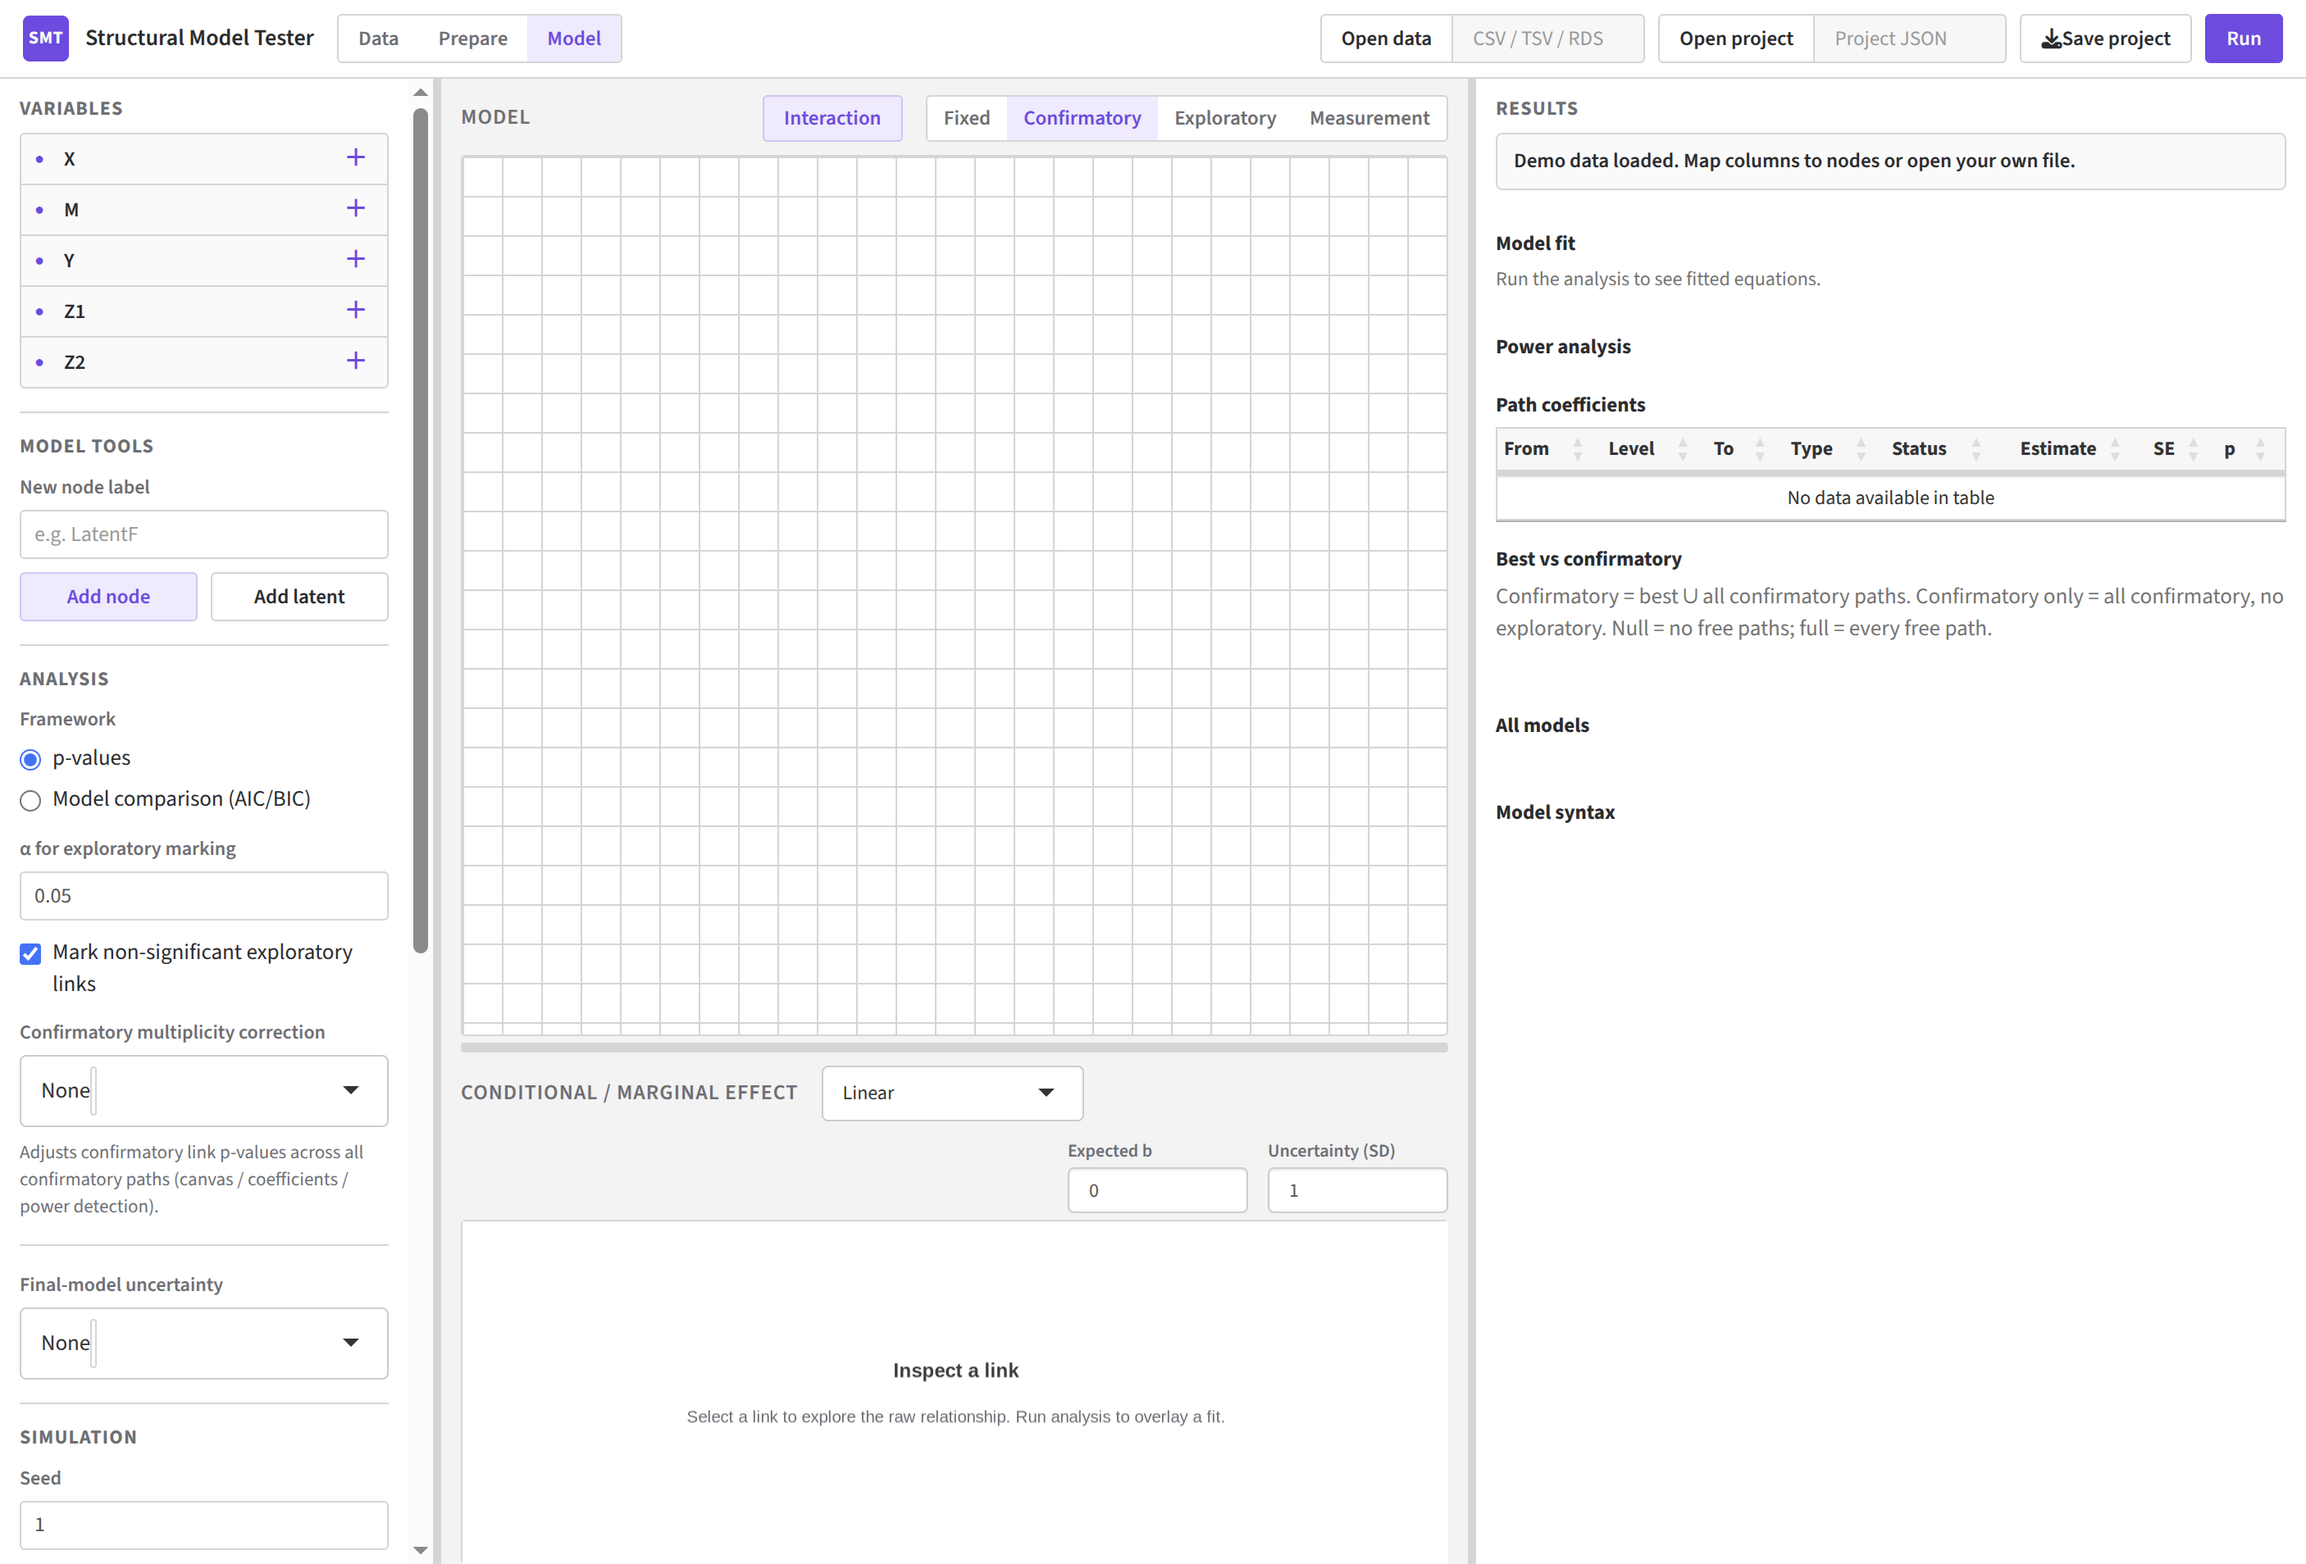
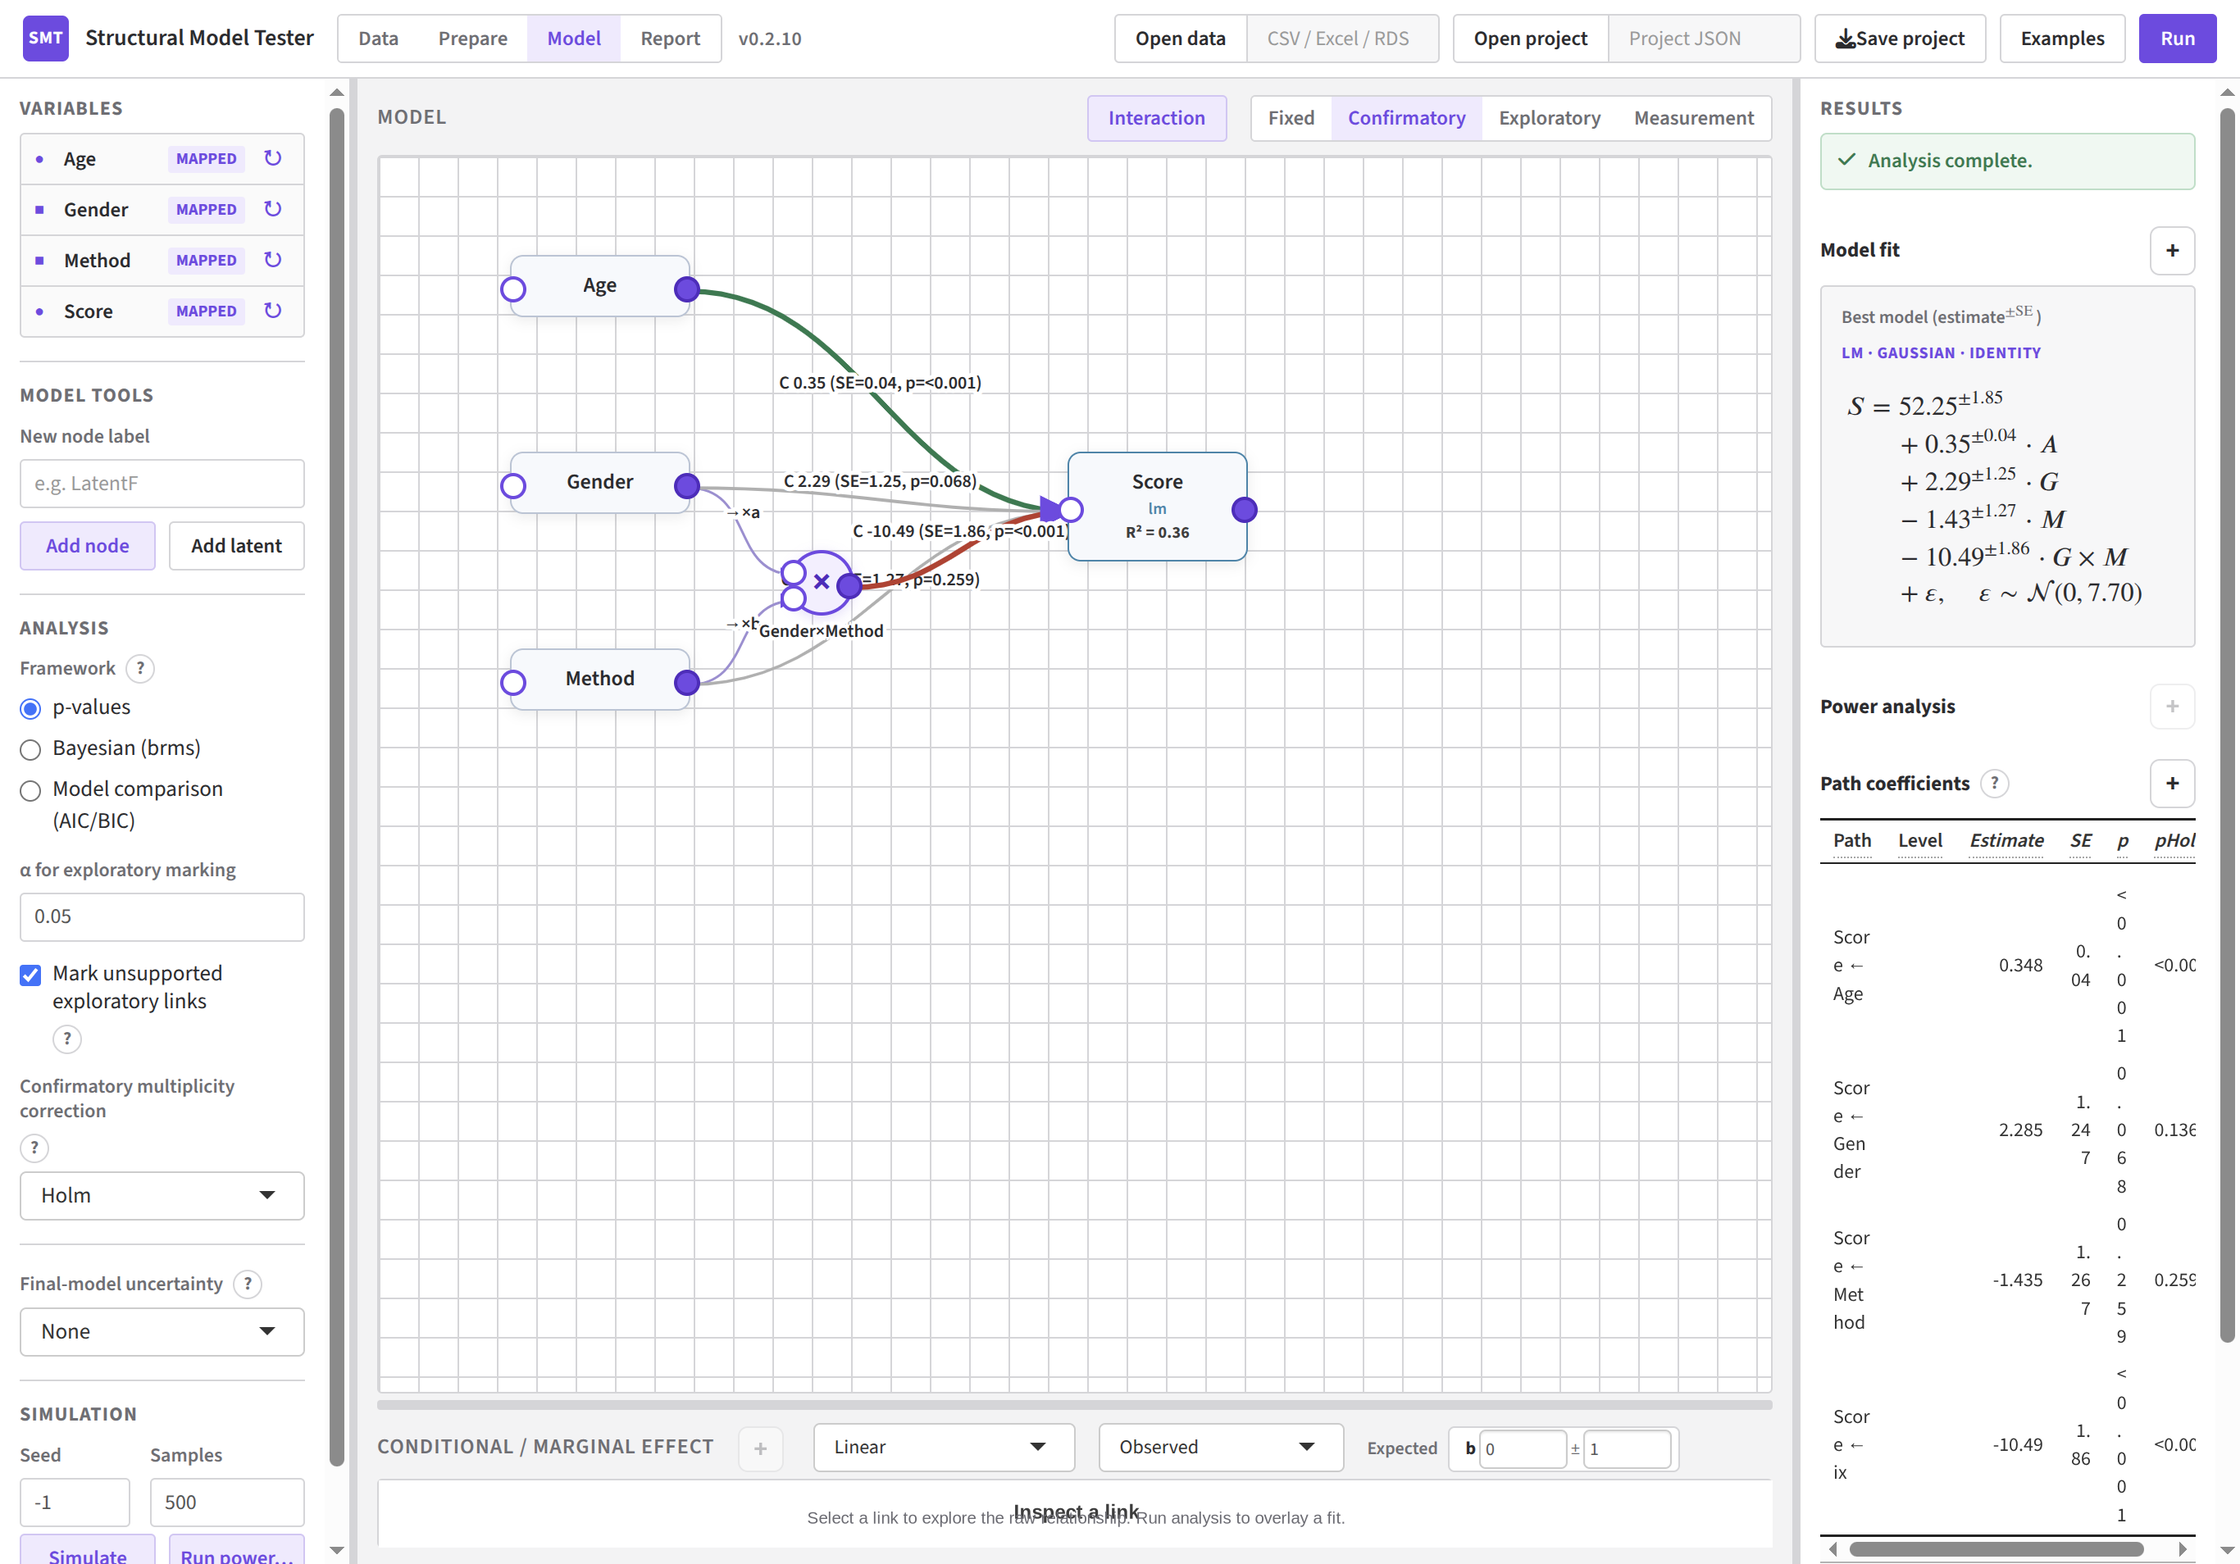
Release 0.2.10: soft-fail browser launch, refreshed docs and screenshots.

diff --git a/README.md b/README.md
@@ -1,6 +1,6 @@
 # Structural Model Tester
 
-Visual path / SEM workbench for R: draw the model, set expected effects, simulate or fit real data, and plan sample size — in one Shiny app.
+Visual path / SEM workbench for R: draw the model, set expected effects as priors, simulate or fit real data (classical, information-criteria search, or Bayesian), and plan sample size — in one Shiny app.
 
 <p align="center">
   <img src="man/figures/readme-app-overview.png" alt="Structural Model Tester app overview" width="900"/>
@@ -9,12 +9,13 @@ Visual path / SEM workbench for R: draw the model, set expected effects, simulat
 ## What it does
 
 - **Canvas model editor** — observed / latent / interaction (×) nodes; drag links that are *fixed*, *confirmatory*, *exploratory*, or *measurement*
-- **Two inference frameworks** — classical **p-values** (optional exploratory marking + confirmatory multiplicity correction) or **AIC/BIC search** with optional full model averaging and **Σw** link rejection
-- **Simulation from expected `b`** — unstandardized slopes on continuous predictors (mean-centered), treatment contrasts for factors, interactions coded like the fit; categorical factors can be **Inter** or **Intra** with probability or exact level counts (Intra + Exact builds within-subject factorials; Samples = subjects)
-- **Conditional / marginal effect plots** — inspect a link with prior band, fit overlay, and interaction correction (ghost line + arrow)
+- **Three inference frameworks** — classical **p-values** (optional exploratory marking + confirmatory multiplicity correction); **AIC/BIC search** with optional full model averaging and **Σw** link rejection; **Bayesian (brms)** with HDI, pd, ROPE, log BF₁₀, and MCMC / PPC diagnostics
+- **Simulation from expected `b`** — unstandardized slopes (also used as normal priors under Bayesian); treatment contrasts for factors; Inter / Intra allocation with probability or exact level counts
+- **Conditional / marginal & mediation plots** — inspect a link with prior band and fit overlay; path tables include via / total effects when mediators are present
+- **Pedagogical field help** — clickable `?` modals on controls (priors, ROPE, BF₁₀, MCMC, …)
 - **Confirmatory power analysis** — Monte Carlo power and null false-detection curves, with a recommended **N\***
 
-Works anywhere R runs (Linux, Windows, macOS) with a local browser.
+Works anywhere R runs (Linux, Windows, macOS). If no system browser is configured, `run_app()` still starts and prints the URL.
 
 ## Screenshots
 
@@ -24,7 +25,7 @@ Works anywhere R runs (Linux, Windows, macOS) with a local browser.
   <img src="man/figures/readme-app-canvas.jpg" alt="Canvas with Age, Gender × Method → Score" width="520"/>
 </p>
 
-Build confirmatory mains and `Gender × Method` interactions on the canvas; dashed / solid styling reflects search or p-value decisions after **Run** or **Simulate**.
+Build confirmatory mains and `Gender × Method` interactions on the canvas; dashed / solid styling reflects search, p-value, or Bayesian decisions after **Run** or **Simulate**.
 
 ### Conditional effects
 
@@ -38,7 +39,7 @@ Selecting a link opens the **Conditional / marginal effect** panel. Interaction 
   <img src="man/figures/readme-age-effect.png" alt="Continuous Age → Score effect with expected b" width="700"/>
 </p>
 
-Continuous links use **Expected `b`** (raw slope), not standardized β — so simulation matches the units you type.
+Continuous links use **Expected `b`** (raw slope), not standardized β — so simulation and Bayesian priors match the units you type.
 
 ### Power and false detections
 
@@ -57,9 +58,11 @@ Continuous links use **Expected `b`** (raw slope), not standardized β — so si
 ```r
 install.packages(c(
   "shiny", "ggplot2", "lavaan", "readr", "readxl",
-  "jsonlite", "DT", "lme4", "lmerTest"
+  "jsonlite", "DT", "lme4", "lmerTest", "emmeans"
 ))
-# from GitHub — remotes::install_github and devtools::install_github both work:
+# Optional Bayesian backend:
+# install.packages(c("brms", "cmdstanr"))  # or rstan
+# from GitHub:
 remotes::install_github("BapJacquet/StructuralModelTester")
 ```
 
@@ -76,6 +79,12 @@ From a local clone:
 ```r
 library(StructuralModelTester)
 run_app()
+
+# Seed the Data tab (skips the examples modal):
+# run_app(data = my_data)
+
+# Echo [smt-debug] lines to the console while developing:
+# run_app(debug = TRUE)
 ```
 
 During development from the source tree:
@@ -85,13 +94,15 @@ During development from the source tree:
 run_app()
 ```
 
+Stop the app from the R console with **Esc** (RStudio / Positron) or **Ctrl+C** (terminal). If a browser does not open, paste the printed `http://…` URL manually (or set `options(browser = "firefox")` / the `BROWSER` env var).
+
 ## Quick start
 
-1. On launch, a welcome modal offers built-in examples (**Path model**, **Interaction**, **Latent measurement**) or **Start blank**. Nothing is loaded until you choose. Reopen anytime via **Examples** in the top bar — or **Open data** (CSV / TSV / Excel / RDS). For SoSci Survey exports, set **Skip rows after header** to `1` on the Data tab to drop the description row.
+1. On launch, a welcome modal offers built-in examples (**Path model**, **Causal chain**, **Interaction**, **Repeated measures**, **Latent measurement**, **Ordered quadratic**) or **Start blank**. Nothing is loaded until you choose. Reopen anytime via **Examples** in the top bar — or **Open data** (CSV / TSV / Excel / RDS). For SoSci Survey exports, set **Skip rows after header** to `1` on the Data tab to drop the description row.
 2. In **Variables**, click **＋** to place observed nodes (or **Add node** / **Add latent** / **Interaction**).
-3. On **Model**, drag between ports. Choose link role: Fixed / Confirmatory / Exploratory / Measurement.
-4. Set **Expected `b`** (and uncertainty) on selected structural links for simulation & power.
-5. **Run** on loaded data, or **Simulate** from the generative settings, then inspect the canvas, equations, and link plots.
+3. On **Model**, drag between ports. Choose link role: Fixed / Confirmatory / Exploratory / Measurement. Pick a **Framework** (p-values, AIC/BIC search, or Bayesian).
+4. Set **Expected `b`** (and uncertainty) on selected structural links for simulation, power, and Bayesian priors.
+5. **Run** on loaded data, or **Simulate** from the generative settings, then inspect the canvas, equations, path-coefficient table, and link plots (plus MCMC/PPC under Bayesian).
 6. Optionally **Run Power Analysis** for confirmatory N\*.
 
 **Save project** / **Open project** stores the graph (nodes, links, priors, sim knobs) as JSON. Data files are opened separately.
@@ -147,7 +158,7 @@ Each node is one canvas object. Important fields:
 | `to_port` | On × nodes: `a` or `b` |
 | `to_level` | Response category when targeting a split categorical DV |
 | `rel_kind` | Continuous expansion: usually `linear` |
-| `prior_family`, `prior_mean`, `prior_sd` | Expected effect for Simulate / Power (`normal` + mean/sd) |
+| `prior_family`, `prior_mean`, `prior_sd` | Expected effect for Simulate / Power / Bayes (`normal` + mean/sd) |
 | `status`, `estimate`, `se`, `pvalue`, `estimate_std`, `label` | Fit/display fields (often pending / null when saved) |
 
 Load/save in R with `model_from_json()` / `model_to_json()` (see also the sample JSON above).
@@ -174,6 +185,7 @@ smt_cmd_actions()  # list supported actions
 |------|------------------------|----------------|
 | **p-values** | Confirmatory links with *p* below α (optional Bonferroni / Holm / BH) | Mark non-significant exploratory links |
 | **AIC/BIC search** | Link in the best IC model; optional **Σw** floor to keep | Full model averaging; null vs confirmatory tables |
+| **Bayesian (brms)** | Decision from HDI / ROPE / pd (and log BF₁₀ on estimates) | Joint or independent equations; MCMC + PPC panels |
 
 Final-model **bootstrap** or **plausible values** can be requested after the model is chosen (uncertainty conditional on that selection).
 
